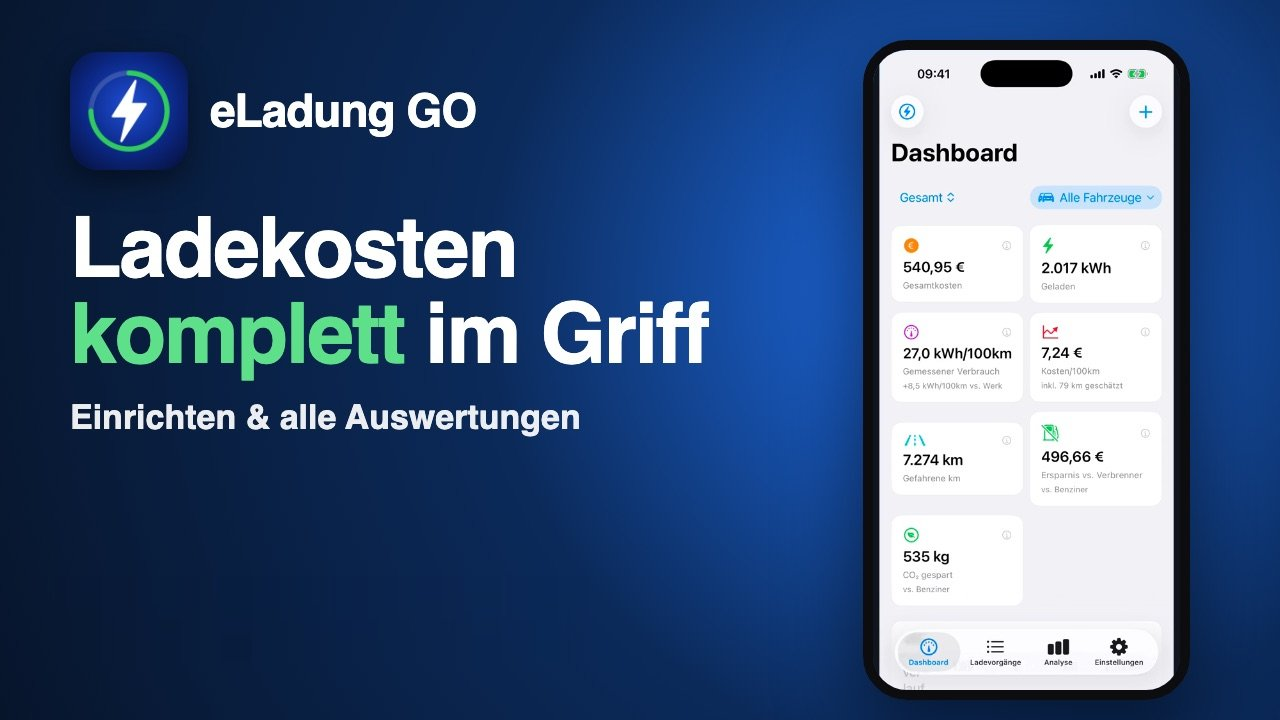
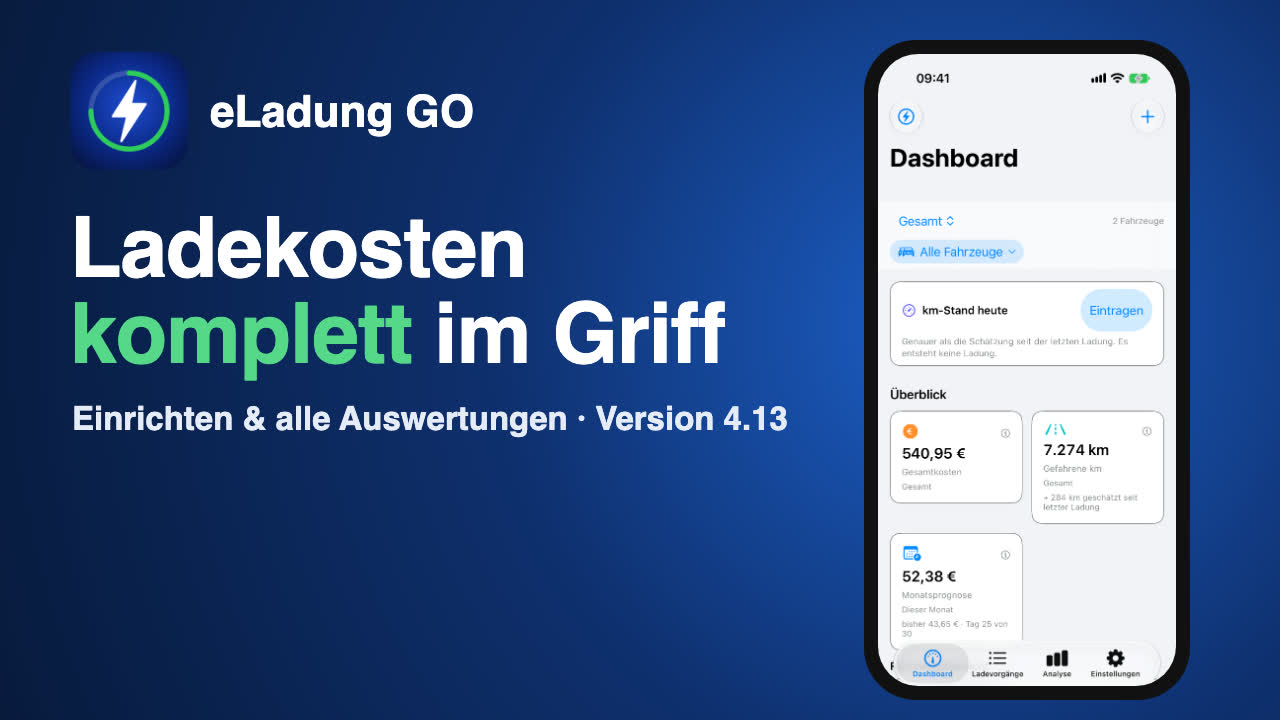
chargescope.ai: Video-Sektion auf neues Video 00 (Version 4.13) umgestellt
Altes Video QctT2IFhSqs (4.12, nicht mehr gelistet) ersetzt durch -2ima7A3MfQ;
Titel DE/EN aus use-cases.md, Vorschaubild lokal ohne Angebots-Badge.
landingpage-guardian B5a V-1…V-8 geprüft.

diff --git a/chargescope.ai/index.html b/chargescope.ai/index.html
@@ -1145,16 +1145,16 @@
       <p class="section-sub text-center" data-i18n="videos_sub">Rundgänge mit Beispieldaten — gesprochen auf Deutsch, mit englischen Untertiteln.</p>
         <div class="video-grid">
           <figure class="video-card">
-            <div class="video-frame" data-yt="QctT2IFhSqs">
+            <div class="video-frame" data-yt="-2ima7A3MfQ">
               <img src="/videos/00-grundsetting.jpg" alt="" width="1280" height="720" loading="lazy" decoding="async">
-              <button type="button" class="video-play" data-i18n-aria="video_00_play" aria-label="Video abspielen: E-Auto Ladekosten-App einrichten – Tarif mit Grundgebühr und alle Auswertungen">
+              <button type="button" class="video-play" data-i18n-aria="video_00_play" aria-label="Video abspielen: E-Auto Ladekosten-App einrichten: Tarif mit Grundgebühr und alle Auswertungen (Version 4.13)">
                 <span class="video-play-icon" aria-hidden="true"></span>
                 <span class="video-consent" aria-hidden="true" data-i18n="videos_click">Klick lädt das Video von YouTube</span>
               </button>
             </div>
             <figcaption>
-              <h3 data-i18n="video_00_title">E-Auto Ladekosten-App einrichten – Tarif mit Grundgebühr und alle Auswertungen</h3>
-              <a class="video-link" href="https://www.youtube.com/watch?v=QctT2IFhSqs" target="_blank" rel="noopener" data-i18n="videos_on_youtube">Auf YouTube ansehen</a>
+              <h3 data-i18n="video_00_title">E-Auto Ladekosten-App einrichten: Tarif mit Grundgebühr und alle Auswertungen (Version 4.13)</h3>
+              <a class="video-link" href="https://www.youtube.com/watch?v=-2ima7A3MfQ" target="_blank" rel="noopener" data-i18n="videos_on_youtube">Auf YouTube ansehen</a>
             </figcaption>
           </figure>
           <figure class="video-card">
@@ -1524,8 +1524,8 @@
         videos_click: 'Klick lädt das Video von YouTube',
         videos_on_youtube: 'Auf YouTube ansehen',
         videos_note: 'Datenschutz: Beim Laden dieser Seite wird nichts von YouTube abgerufen. Erst wenn du auf ein Video klickst, lädt dein Browser den Player von YouTube (Google, youtube-nocookie.com). Mehr in der <a href="/privacy/#youtube">Datenschutzerklärung</a>.',
-        video_00_title: 'E-Auto Ladekosten-App einrichten – Tarif mit Grundgebühr und alle Auswertungen',
-        video_00_play: 'Video abspielen: E-Auto Ladekosten-App einrichten – Tarif mit Grundgebühr und alle Auswertungen',
+        video_00_title: 'E-Auto Ladekosten-App einrichten: Tarif mit Grundgebühr und alle Auswertungen (Version 4.13)',
+        video_00_play: 'Video abspielen: E-Auto Ladekosten-App einrichten: Tarif mit Grundgebühr und alle Auswertungen (Version 4.13)',
         video_05_title: 'Was spart mein E-Auto wirklich? Benziner-Vergleich, Heimladen und Wallbox',
         video_05_play: 'Video abspielen: Was spart mein E-Auto wirklich? Benziner-Vergleich, Heimladen und Wallbox',
         nav_sub:           'eine App von <a href="https://www.torecon.de/" target="_blank" rel="noopener">torecon</a>',
@@ -1787,8 +1787,8 @@
         videos_click: 'Click loads the video from YouTube',
         videos_on_youtube: 'Watch on YouTube',
         videos_note: 'Privacy: loading this page fetches nothing from YouTube. Only when you click a video does your browser load the player from YouTube (Google, youtube-nocookie.com). More in the <a href="/privacy/#youtube-en">privacy policy</a>.',
-        video_00_title: 'Set up an EV charging cost app – tariff with monthly fee and every analysis',
-        video_00_play: 'Play video: Set up an EV charging cost app – tariff with monthly fee and every analysis',
+        video_00_title: 'Set up an EV charging cost app: tariff with monthly fee and every analysis (version 4.13)',
+        video_00_play: 'Play video: Set up an EV charging cost app: tariff with monthly fee and every analysis (version 4.13)',
         video_05_title: 'Does my EV really save money? Petrol comparison, home charging and wallbox payback',
         video_05_play: 'Play video: Does my EV really save money? Petrol comparison, home charging and wallbox payback',
         nav_sub:           'an app by <a href="https://www.torecon.de/" target="_blank" rel="noopener">torecon</a>',
